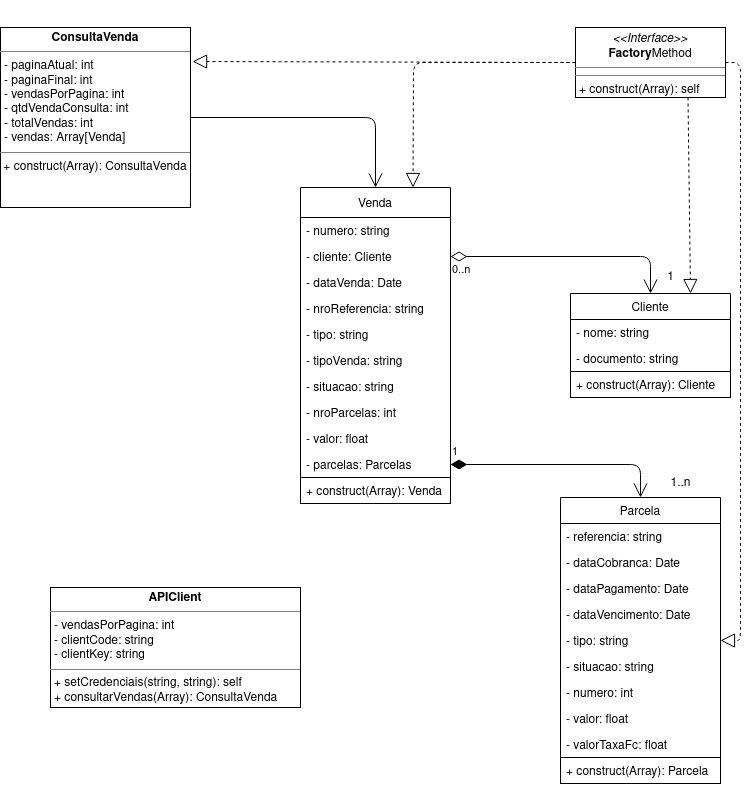
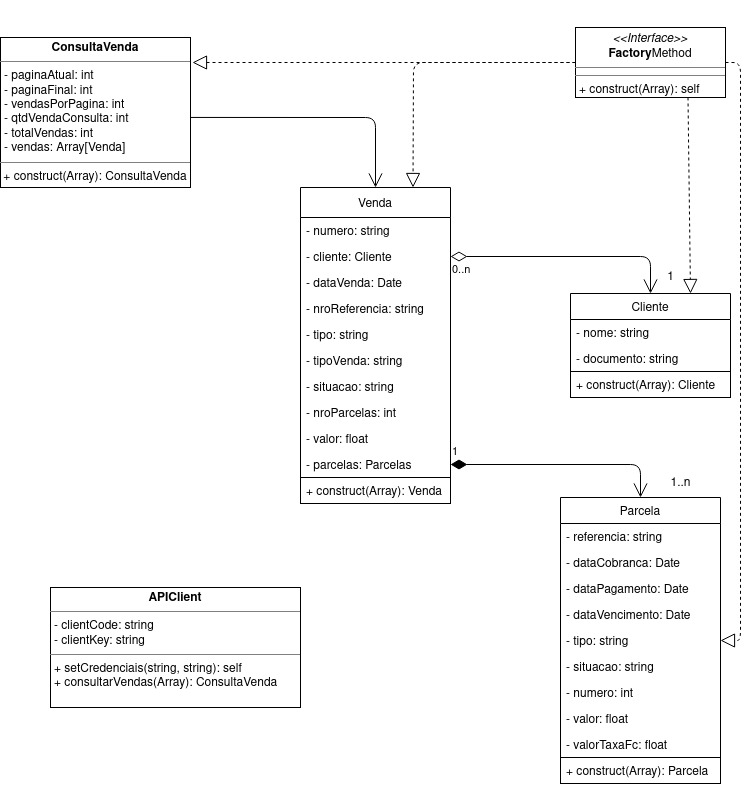
atualiza UML

Changed region(s): [[0.0, 0.0305, 0.2437, 0.244], [0.0609, 0.7624, 0.3656, 0.9149], [0.2437, 0.061, 0.2742, 0.0915]]

diff --git a/src/APIClient.php b/src/APIClient.php
@@ -1,0 +1,10 @@
+<?php
+
+
+namespace Fastpay\Client;
+
+
+class APIClient
+{
+
+}
